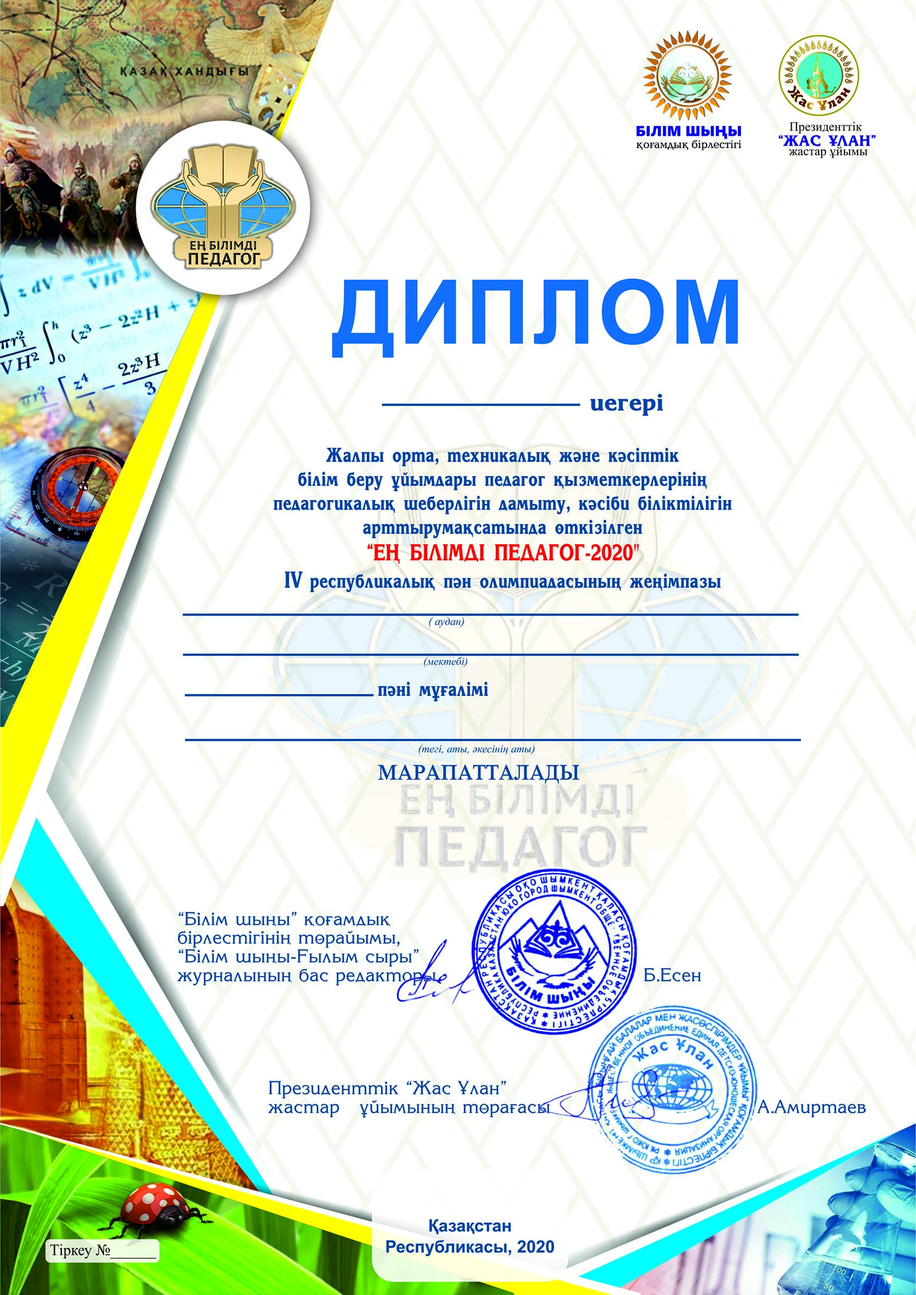
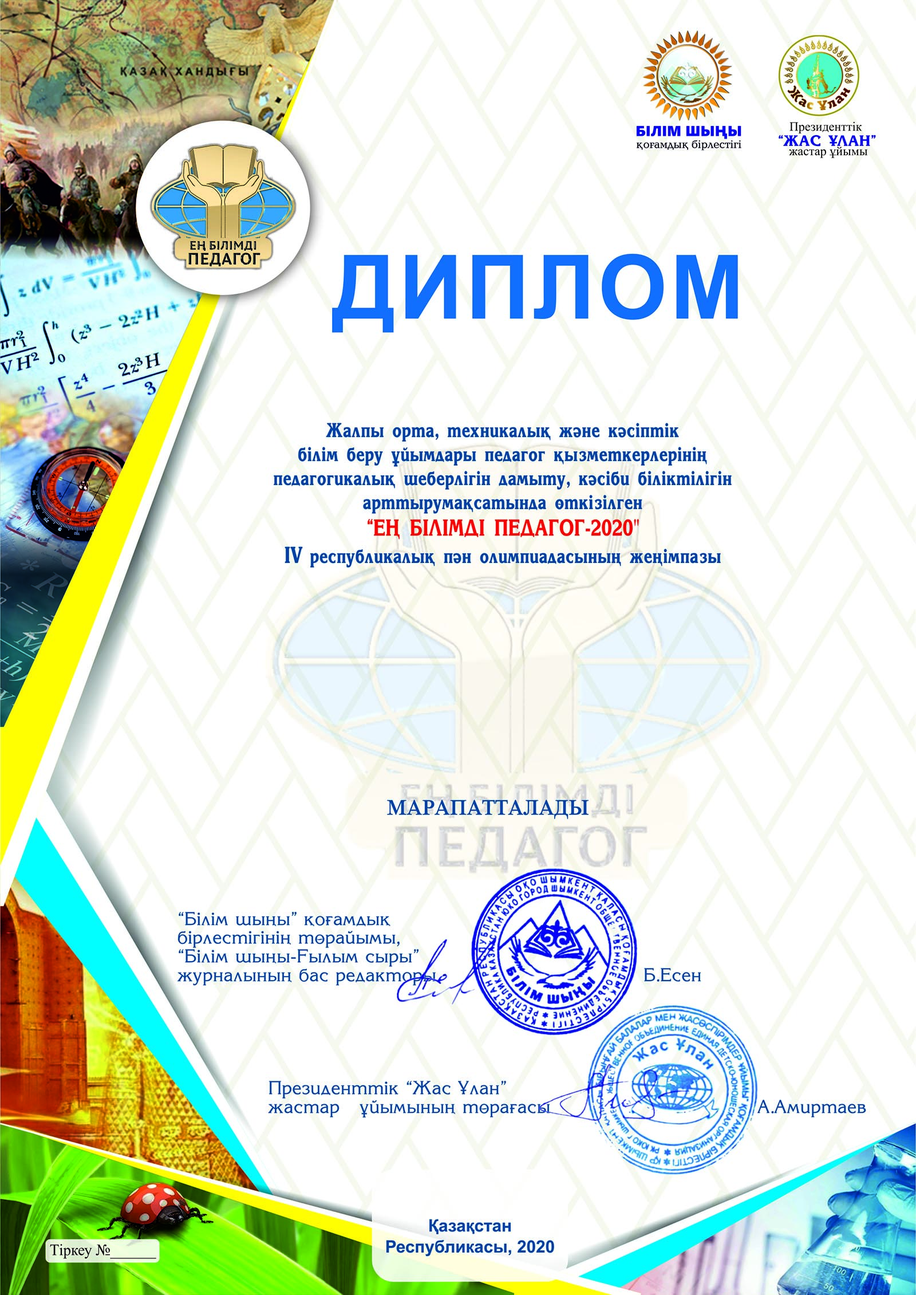
Olympiad diploma fixes

Changed region(s): [[0.2812, 0.3096, 0.8125, 0.6502], [0.3438, 0.1858, 0.8125, 0.2786]]

diff --git a/frontend/views/olympiad/_diploma.php b/frontend/views/olympiad/_diploma.php
@@ -4,11 +4,11 @@
 ?>
 <div>
     <div class="cert-page" style="background-image: url('/img/ped-olymp-diploma.jpg'); background-size: cover; background-repeat: no-repeat; width: 800px; height: 1200px; font-family: 'Times New Roman';">
-        <div id="cert-place" style="padding-top: 276px; padding-left: 20px; width: 900px; text-align: center; font-size: 28px; font-weight: bold; color: #e53830;"><?= $place ?> орын</div>
-        <div id="cert-name" style="padding-top: 138px; padding-left: 0; width: 900px; text-align: center; font-size: 18px;"><?= $testAssignment->school->city->region->name ?></div>
-        <div id="cert-name" style="padding-top: 10px; padding-left: 0; width: 900px; text-align: center; font-size: 18px;"><?= $testAssignment->school->name ?></div>
-        <div id="cert-name" style="padding-top: 10px; padding-left: 0; width: 900px; text-align: center; font-size: 18px; font-weight: bold; color: #e53830;"><?= $testAssignment->name . ' ' . $testAssignment->surname . ' ' . $testAssignment->patronymic ?></div>
-        <div id="cert-school" style="padding-top: 5px; padding-left: 400px; font-size: 16px; color: #000000; height: 20px; width: 900px; text-align: center; font-weight: 200"><?= $testAssignment->school->name ?></div>
-        <div id="cert-number" style="padding-top: 425px; padding-left: 88px; font-size: 14px; color: #454545; font-family: 'Times New Roman'"><?= $testAssignment->id ?></div>
+        <div id="cert-place" style="padding-top: 276px; padding-left: 20px; width: 900px; text-align: center; font-size: 28px; font-weight: bold; color: #e53830;"><?= $place ?> орын иегері</div>
+        <div id="cert-region" style="padding-top: 130px; padding-left: 0; width: 900px; text-align: center; font-size: 14px;"><?= $testAssignment->school->city->region->name ?></div>
+        <div id="cert-school" style="padding-top: 5px; padding-left: 80px; width: 540px; height: 40px; text-align: center; font-size: 14px;"><?= $testAssignment->school->name ?></div>
+        <div id="cert-subject" style="padding-top: 5px; padding-left: 0; font-size: 14px; color: #000000; height: 20px; width: 900px; text-align: center;"><?= $testAssignment->test->subject->getName() ?></div>
+        <div id="cert-name" style="padding-top: 20px; padding-left: 0; width: 900px; text-align: center; font-size: 18px; font-weight: bold; color: #e53830;"><?= $testAssignment->name . ' ' . $testAssignment->surname . ' ' . $testAssignment->patronymic ?></div>
+        <div id="cert-number" style="padding-top: 375px; padding-left: 88px; font-size: 14px; color: #454545; font-family: 'Times New Roman'"><?= $testAssignment->id ?></div>
     </div>
 </div>
